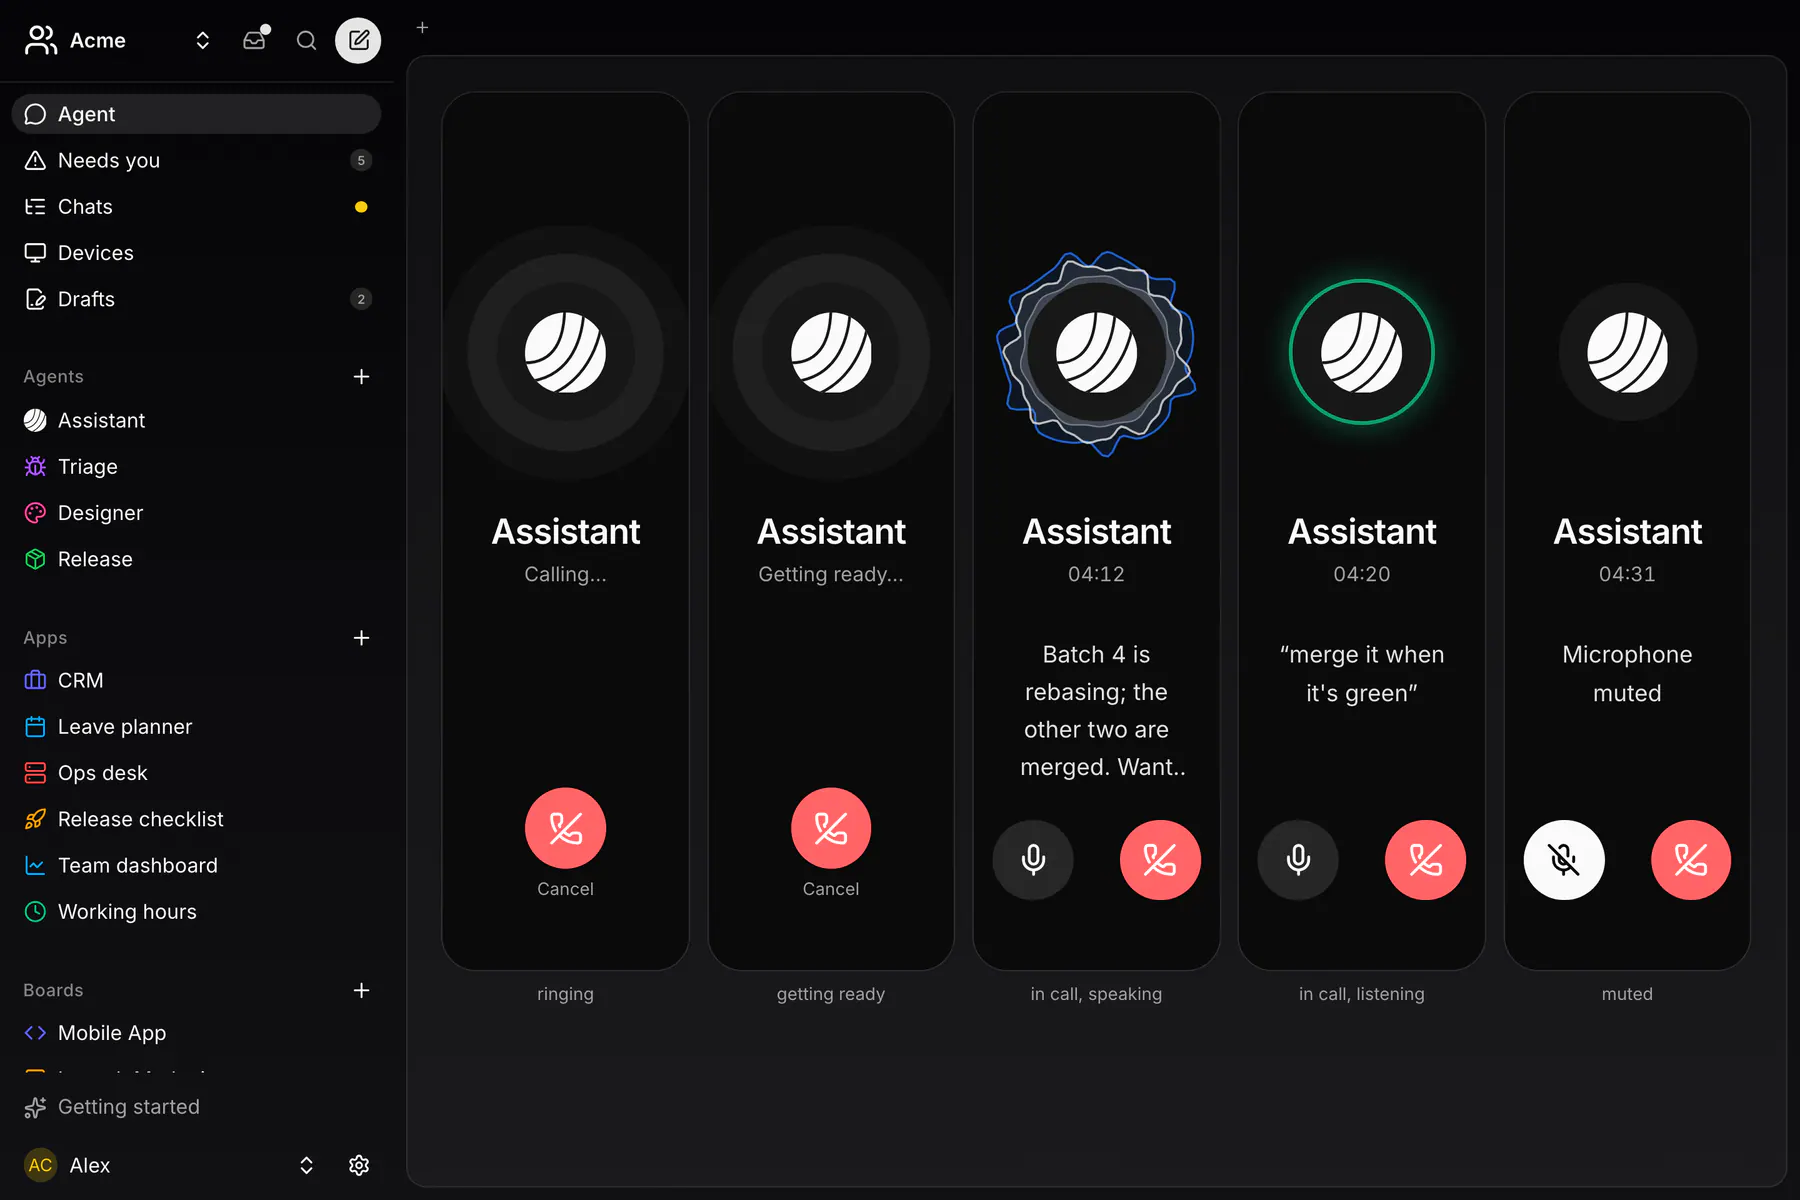
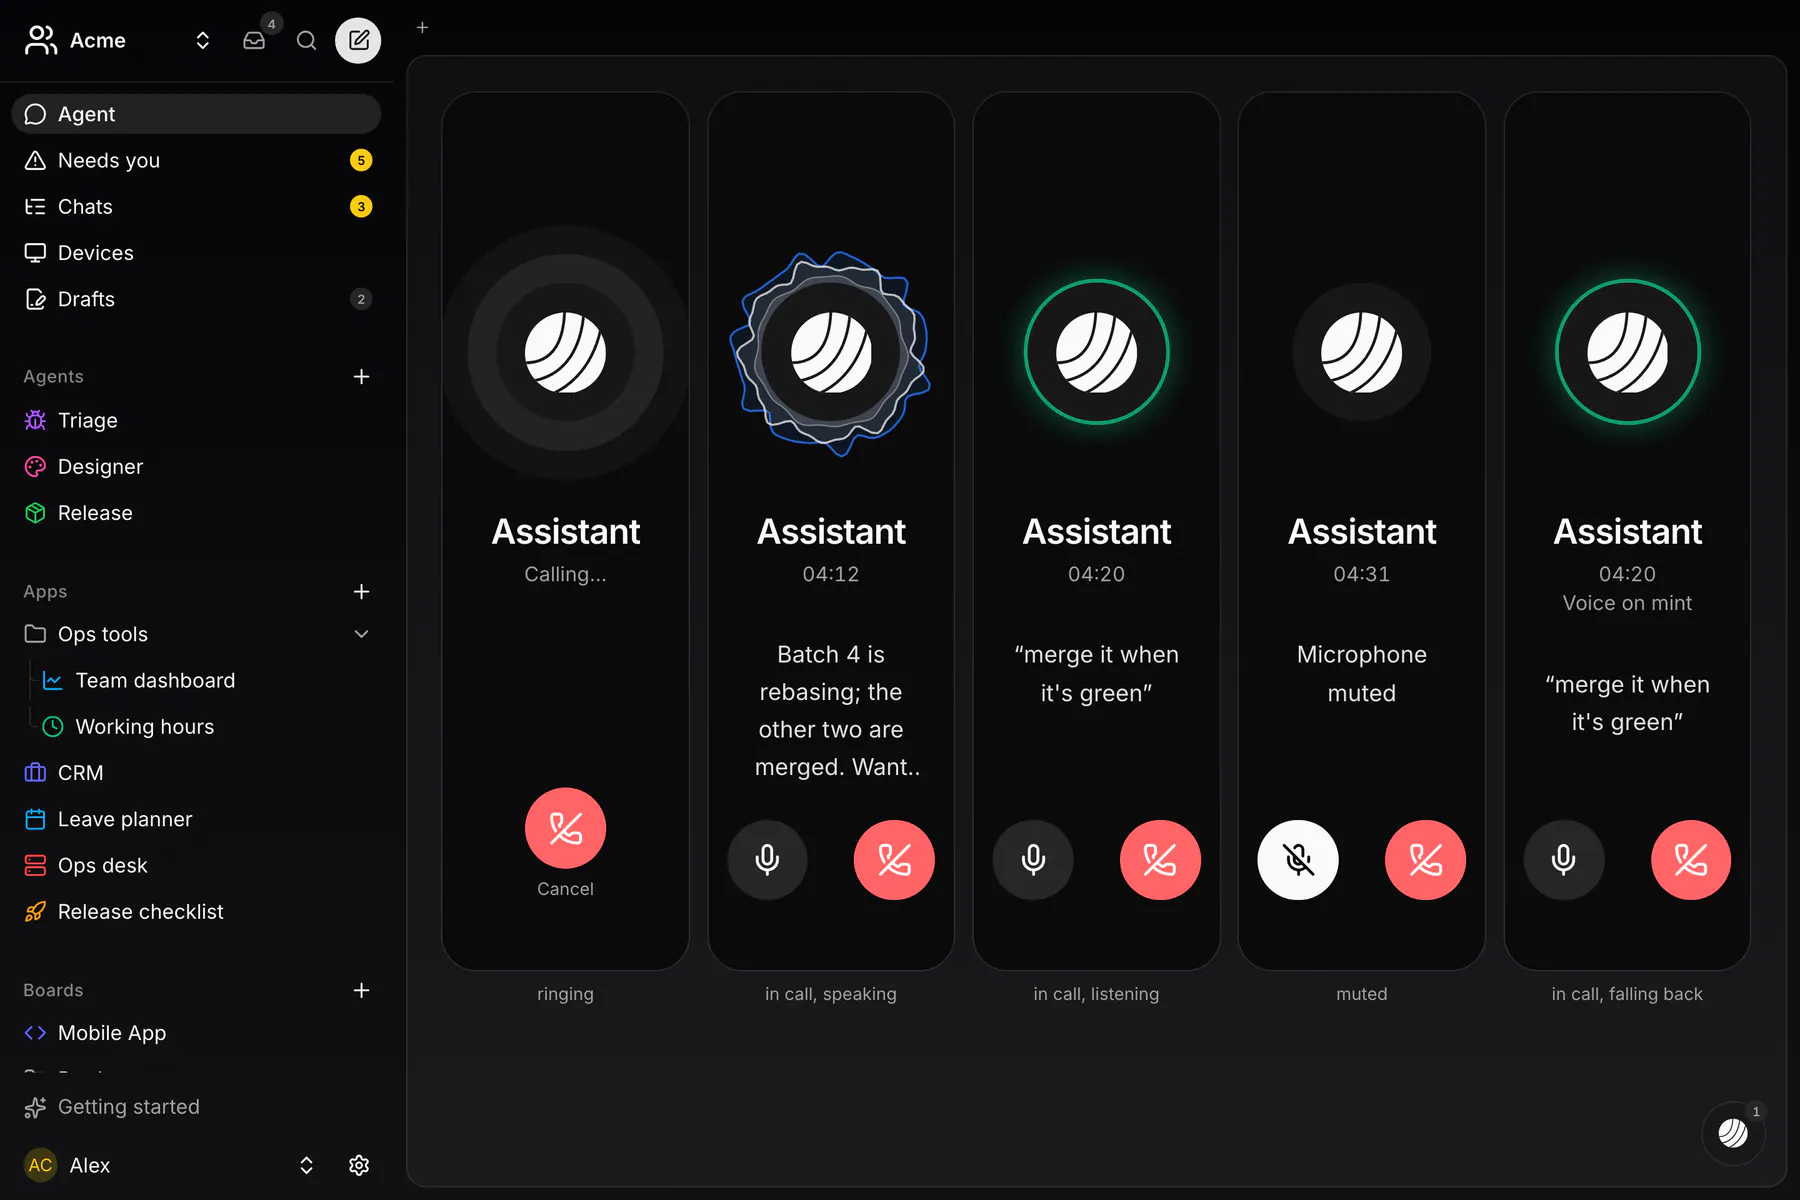
EXP-1857: web voice-call view shows the fallback specimen

diff --git a/apps/web/src/routes/t/$teamSlug/agent.tsx b/apps/web/src/routes/t/$teamSlug/agent.tsx
@@ -136,6 +136,10 @@ const DEV_VIEWS = [
   `sealed-locked`,
 ] as const
 type DevView = (typeof DEV_VIEWS)[number]
+/** EXP-1857: the web `voice-call` row of five (the fallback replaces
+ *  "getting ready"); phones show all six. */
+const WEB_CALL_SPECIMENS = [`ringing`, `in call, speaking`, `in call, listening`, `muted`, `in call, falling back`]
+
 const devView = (value: unknown): DevView | undefined =>
   !isProductionBuild && DEV_VIEWS.includes(value as DevView)
     ? (value as DevView)
@@ -221,10 +225,13 @@ function AgentRoute() {
         ) : dev === `code-block` ? (
           <CodeBlockSpecimen />
         ) : dev === `voice-call` ? (
-          // voice-call.json `surfaceSpecimens`: all five states, each
-          // captioned; one row on web, one full-width column on phones.
+          // voice-call.json `surfaceSpecimens`, each captioned: one row of
+          // five on web (EXP-1857: the fallback's device line in place of
+          // "getting ready", the ring's other status), all six in one
+          // full-width column on phones.
           <VoiceCallSpecimen
             platform="web"
+            names={isMobile ? undefined : WEB_CALL_SPECIMENS}
             className={isMobile ? `grid grid-cols-1 gap-4` : `grid grid-cols-5 items-start gap-3`}
             frameClassName={isMobile ? `h-[640px] w-full` : `h-[704px] w-full`}
           />
